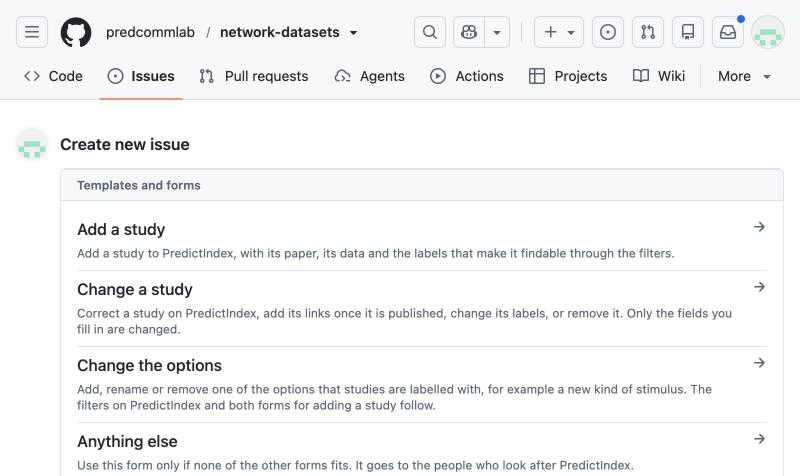
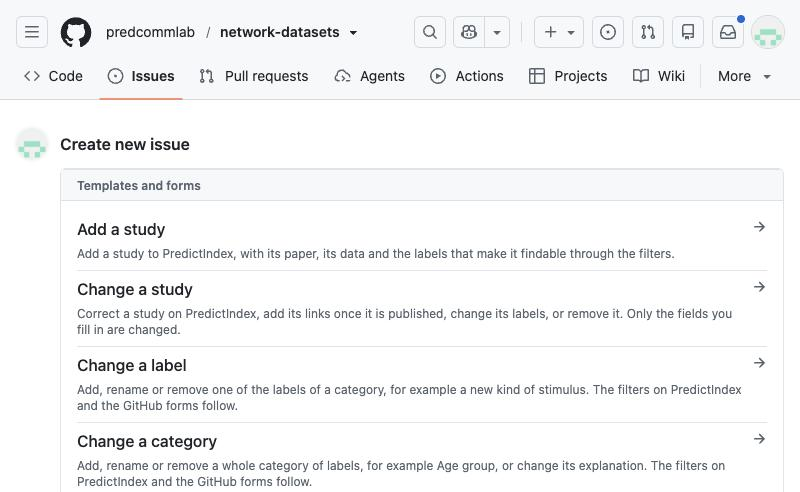
Guide: the form chooser with the four new forms

diff --git a/MAINTENANCE.md b/MAINTENANCE.md
@@ -28,7 +28,7 @@ is for:
    ![The predcommlab/network-datasets repository on GitHub, with its name, the Issues tab and the green New issue button marked](guide-images/new-issue.png)
 2. Choose a form (see section 3).
 
-   ![The page Create new issue, with the forms](guide-images/choose-form.png)
+   ![The page Create new issue, with the four forms Add a study, Change a study, Change a label and Change a category](guide-images/choose-form.png)
 3. Fill in the form. Click **Create**.
 
    ![The end of the form Add a study, with the green Create button marked](guide-images/create-button.png)
